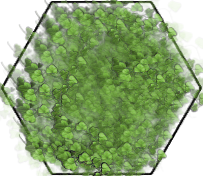
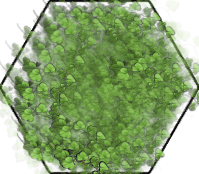
.

diff --git a/main.py b/main.py
@@ -7,7 +7,7 @@ from Scripts.SaveManager import *
 pygame.init()
 clock = pygame.time.Clock()
 screen = pygame.display.set_mode((SCREEN_WIDTH, SCREEN_HEIGHT))
-texture_pack = TexturePack("Assets/Realistic_Pack/Realistic_Pack.json")
+texture_pack = TexturePack("Assets/Classic_Pack/Classic_Pack.json")
 
 monde = Carte(MAP_SIZE_X,MAP_SIZE_Y)
 monde.generer(biomes_disponibles)
